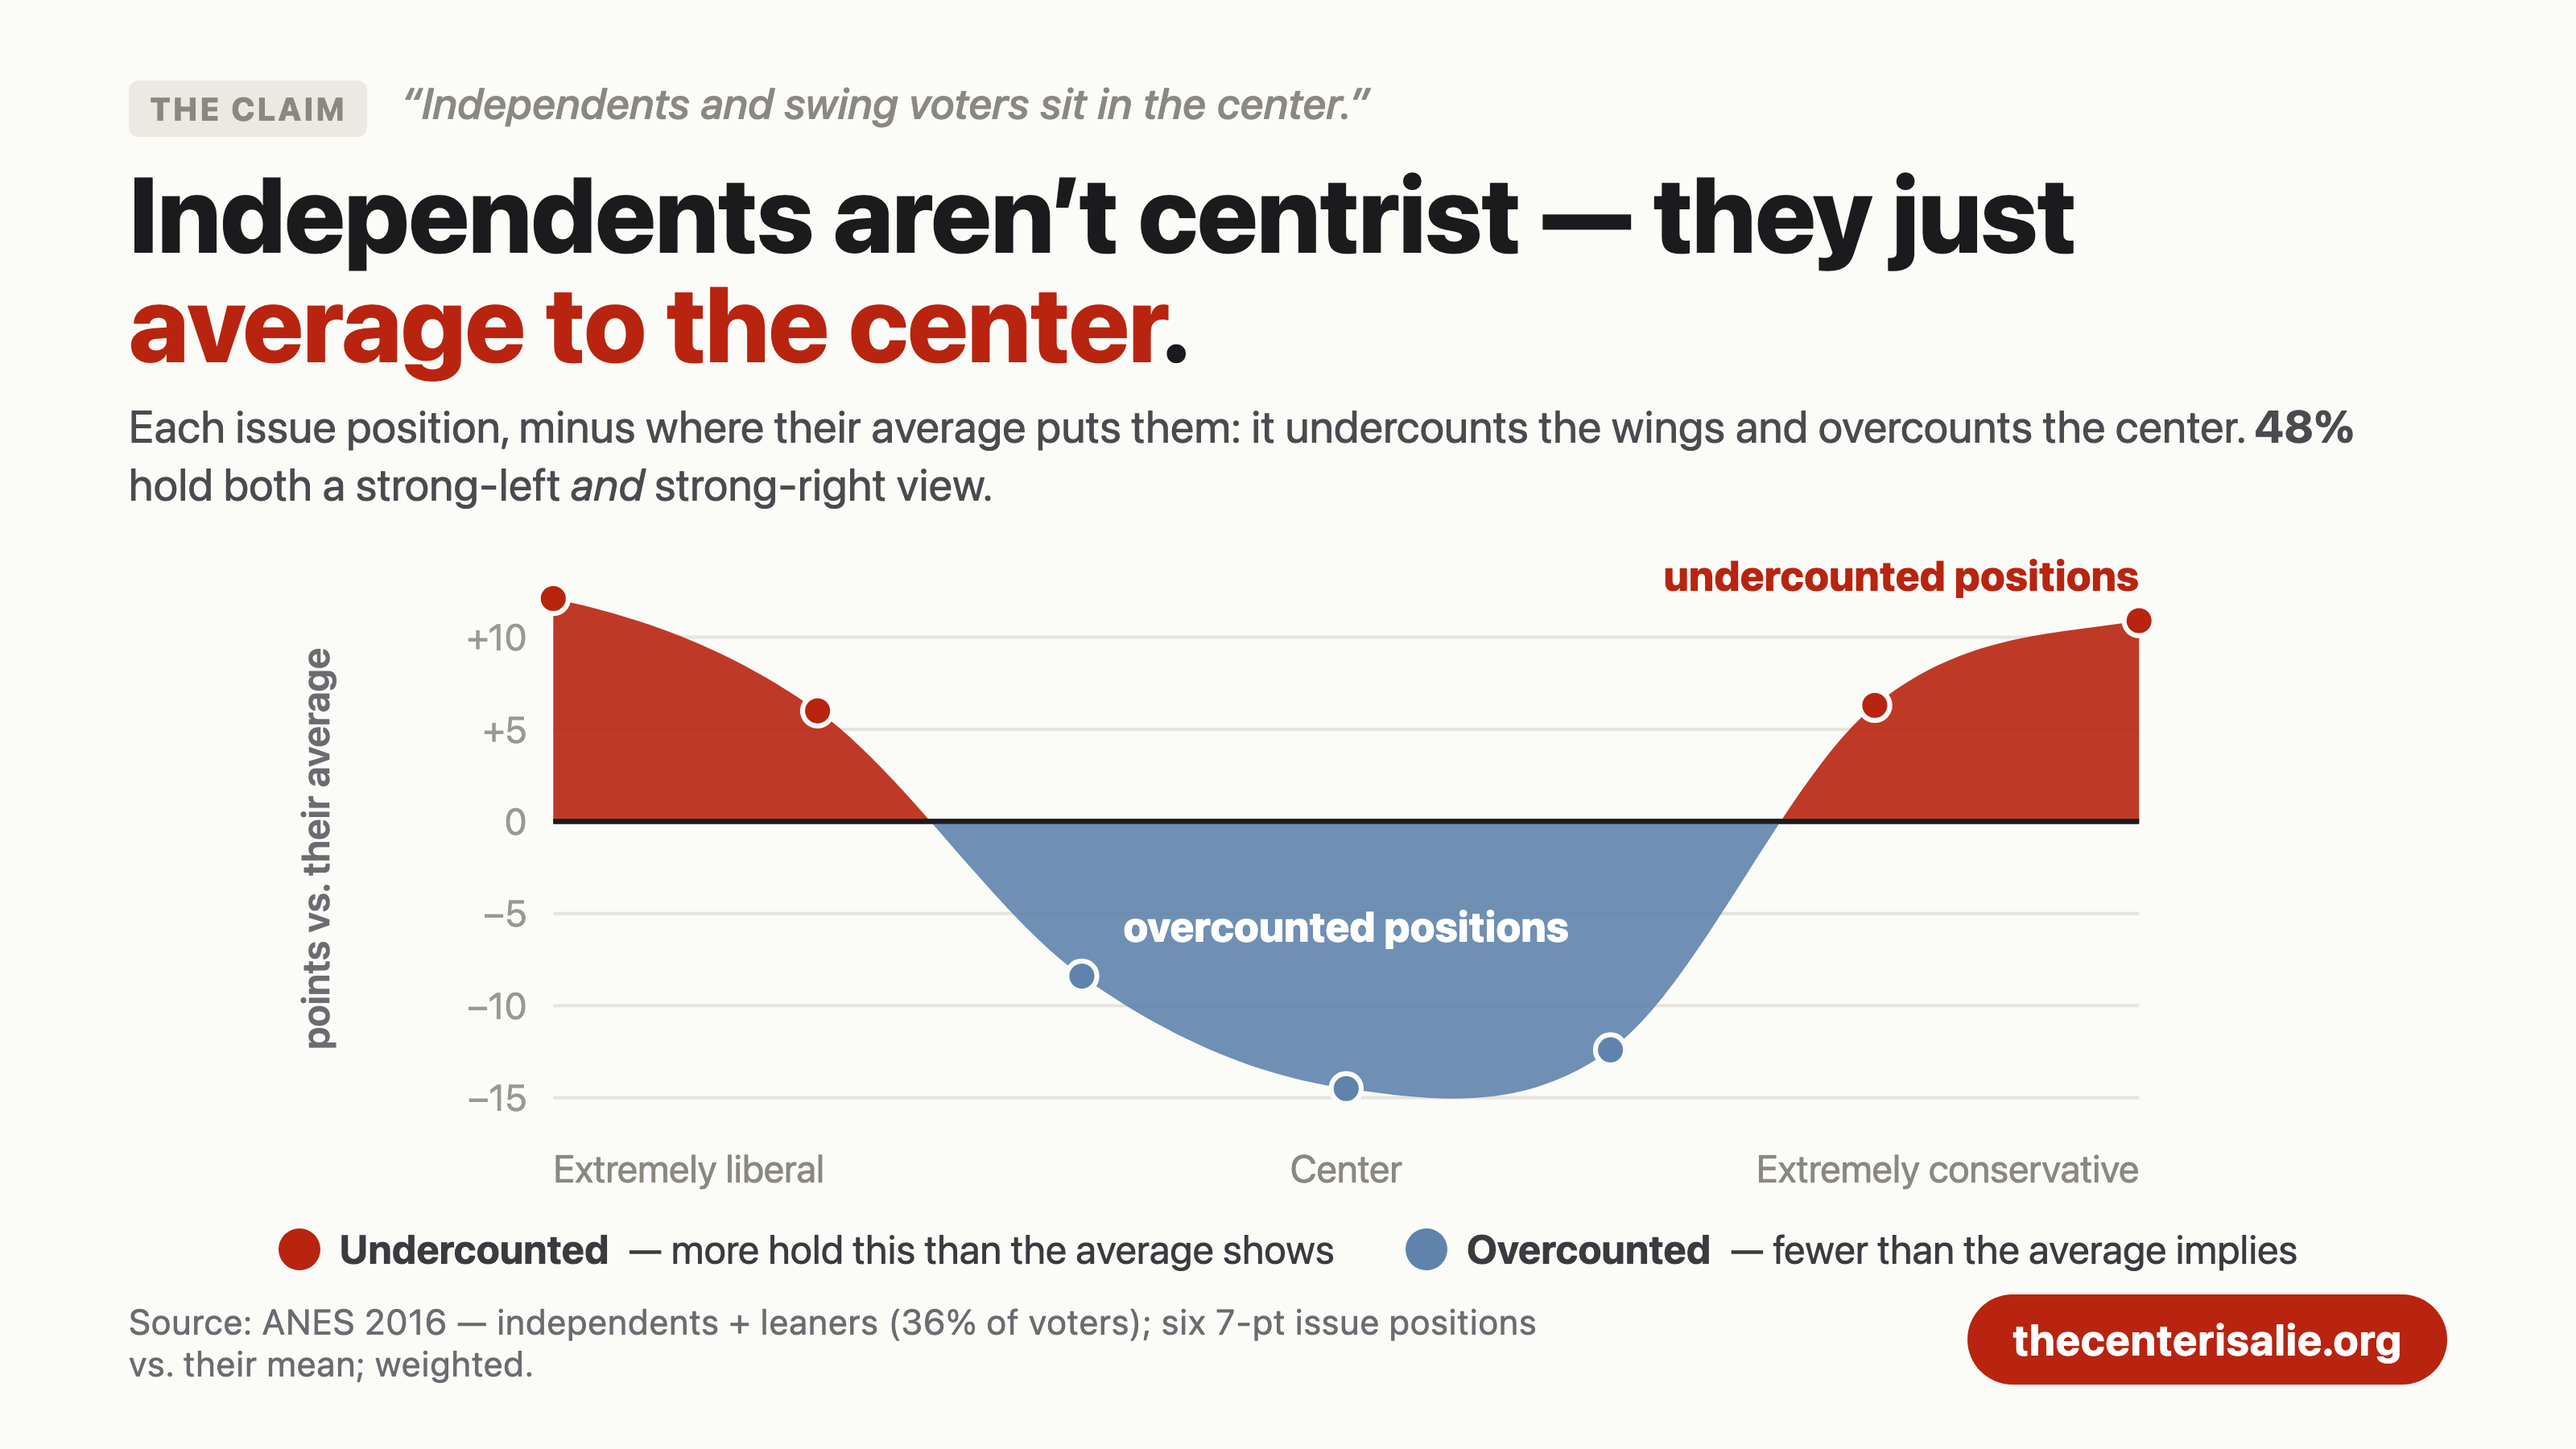
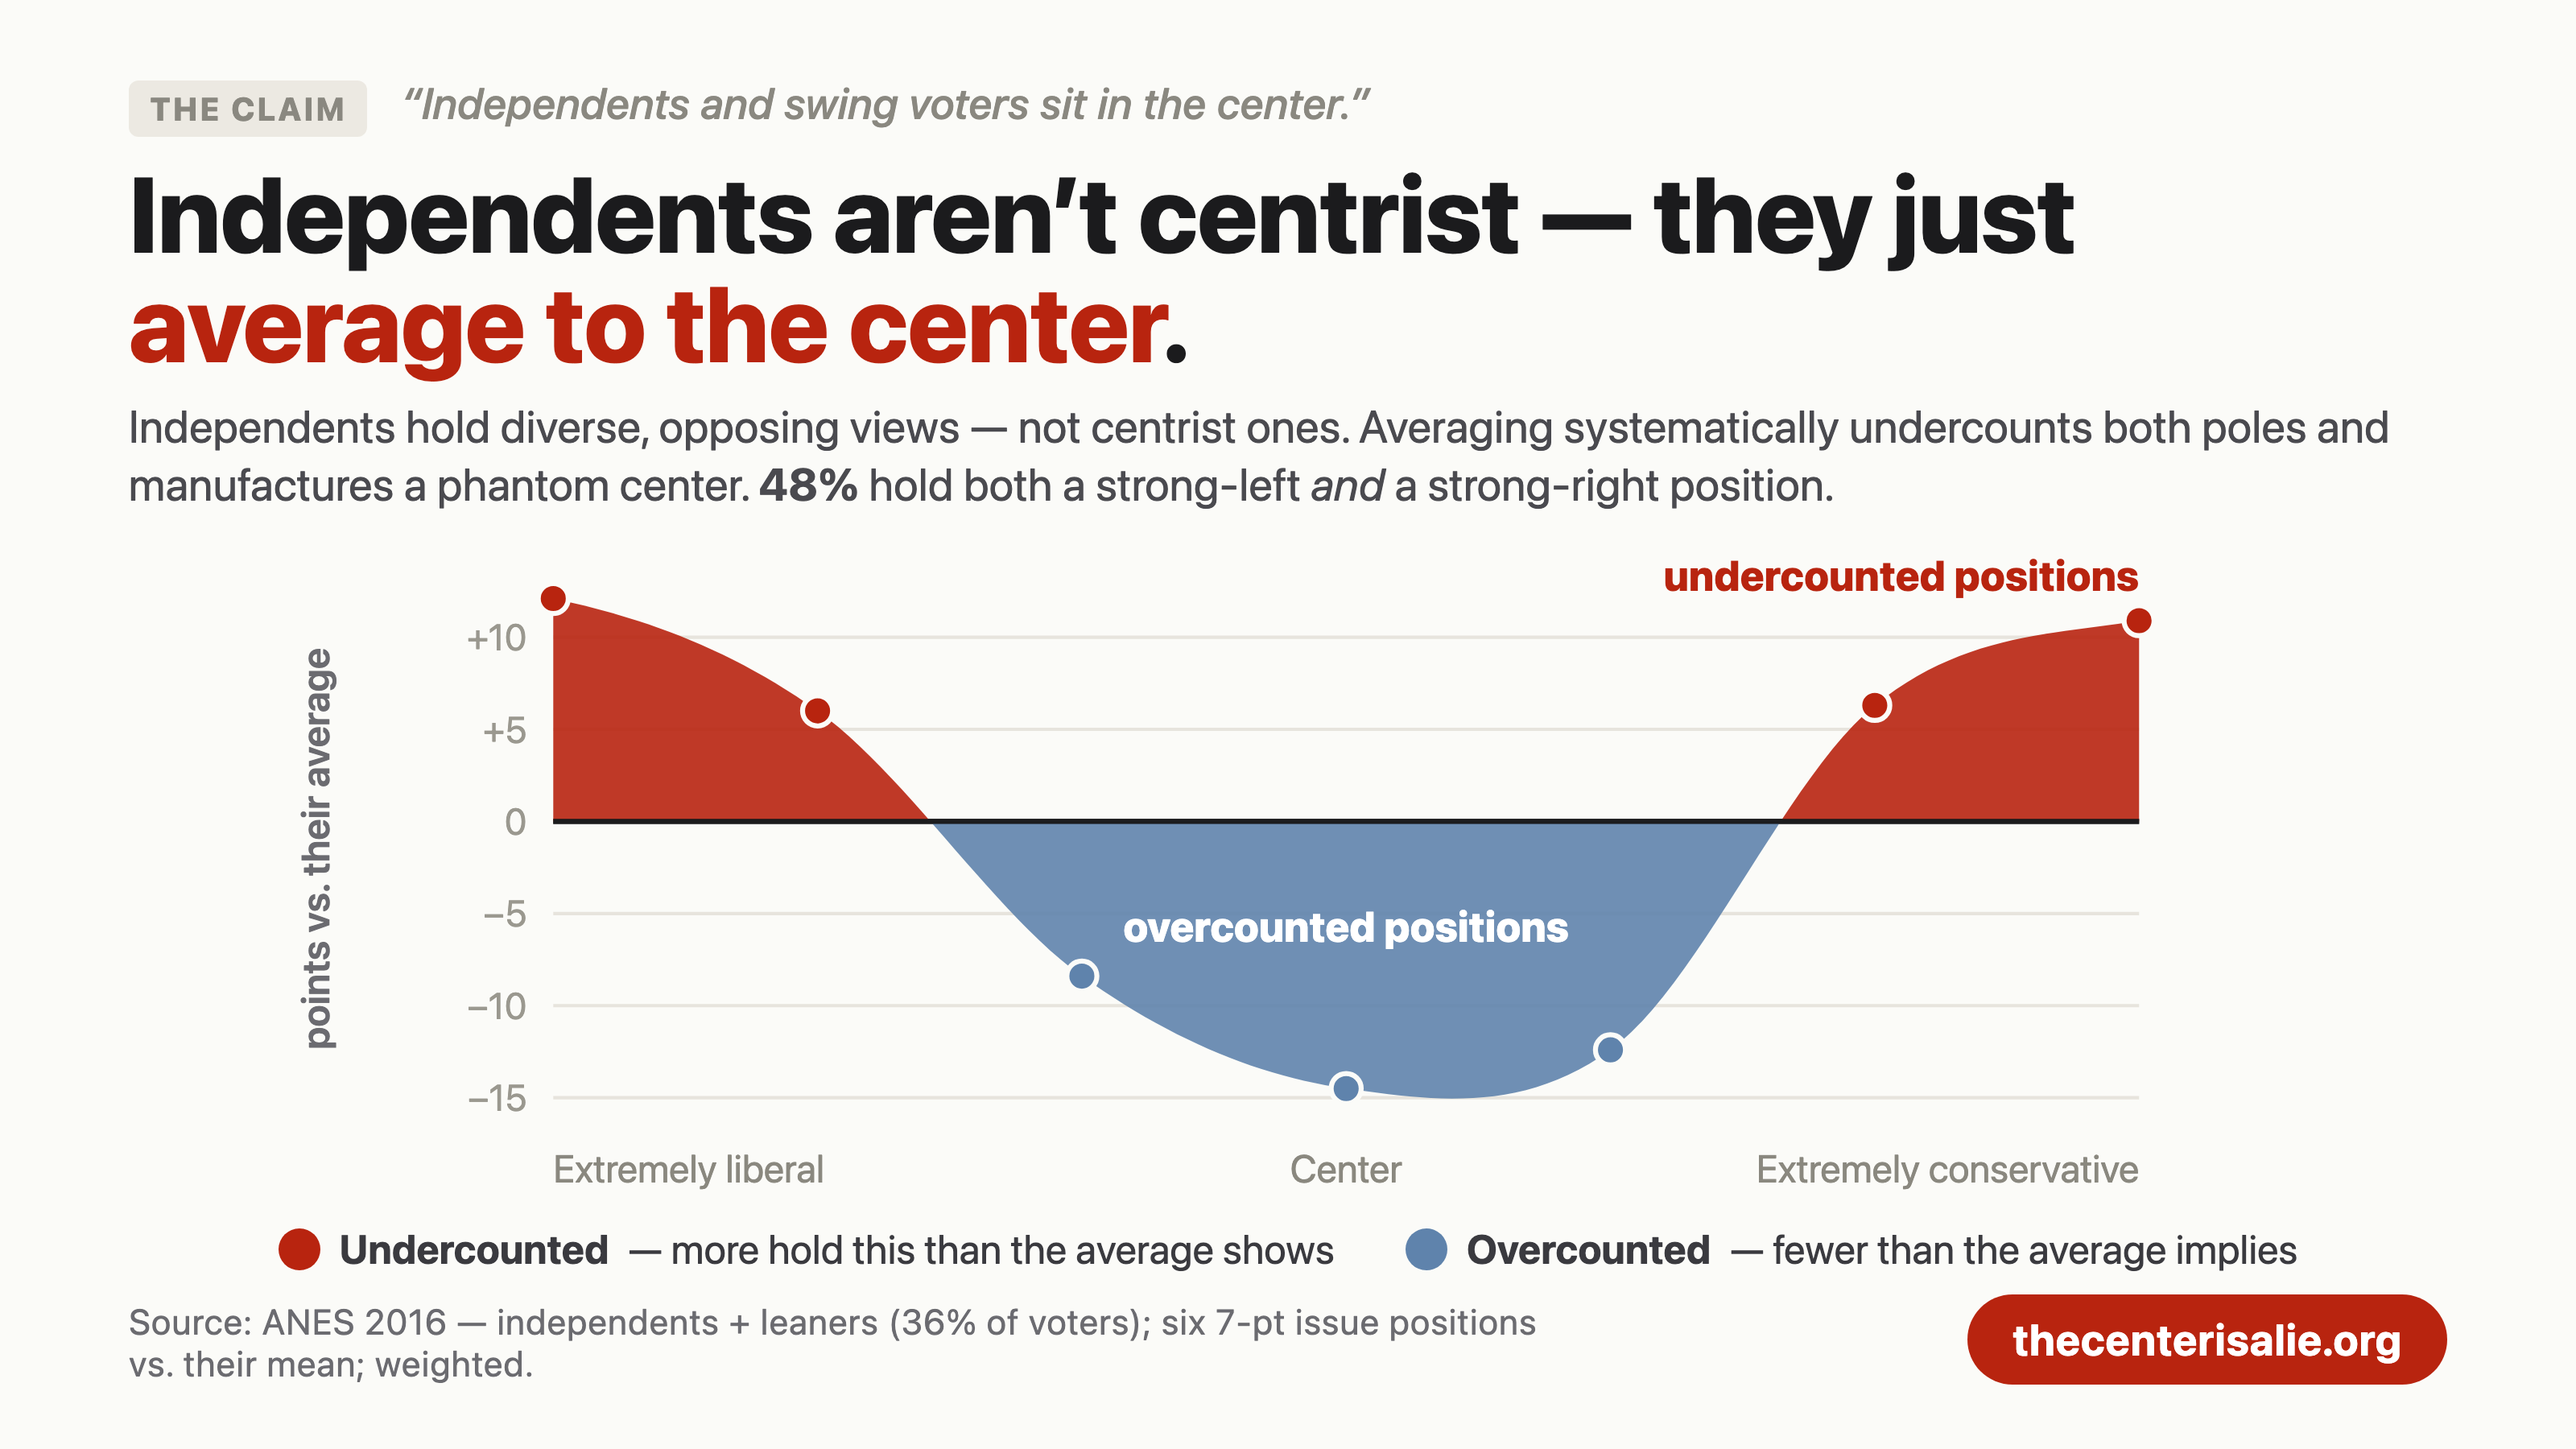
copy(og): illusion subhead — denser, more statistical (systematic undercount, phantom center)

Changed region(s): [[0.0625, 0.28, 0.9375, 0.3733]]

diff --git a/web/og-cards/chart-illusion.html b/web/og-cards/chart-illusion.html
@@ -4,8 +4,8 @@
   <div class="chartcard">
     <div class="cc-claim"><span class="tag">The claim</span> &ldquo;Independents and swing voters sit in the center.&rdquo;</div>
     <div class="cc-title">Independents aren&rsquo;t centrist &mdash; they just <span class="hl">average to the center</span>.</div>
-    <div class="cc-sub">Each issue position, minus where their average puts them: it undercounts the wings and overcounts
-      the center. <strong>48%</strong> hold both a strong-left <em>and</em> strong-right view.</div>
+    <div class="cc-sub">Independents hold diverse, opposing views &mdash; not centrist ones. Averaging systematically undercounts
+      both poles and manufactures a phantom center. <strong>48%</strong> hold both a strong-left <em>and</em> a strong-right position.</div>
 
     <div class="cc-chart"><svg id="ill" viewBox="0 0 1240 418" role="img"
       aria-label="Per-issue minus averaged position for independents, in percentage points: positive on the wings, negative in the middle"></svg></div>
